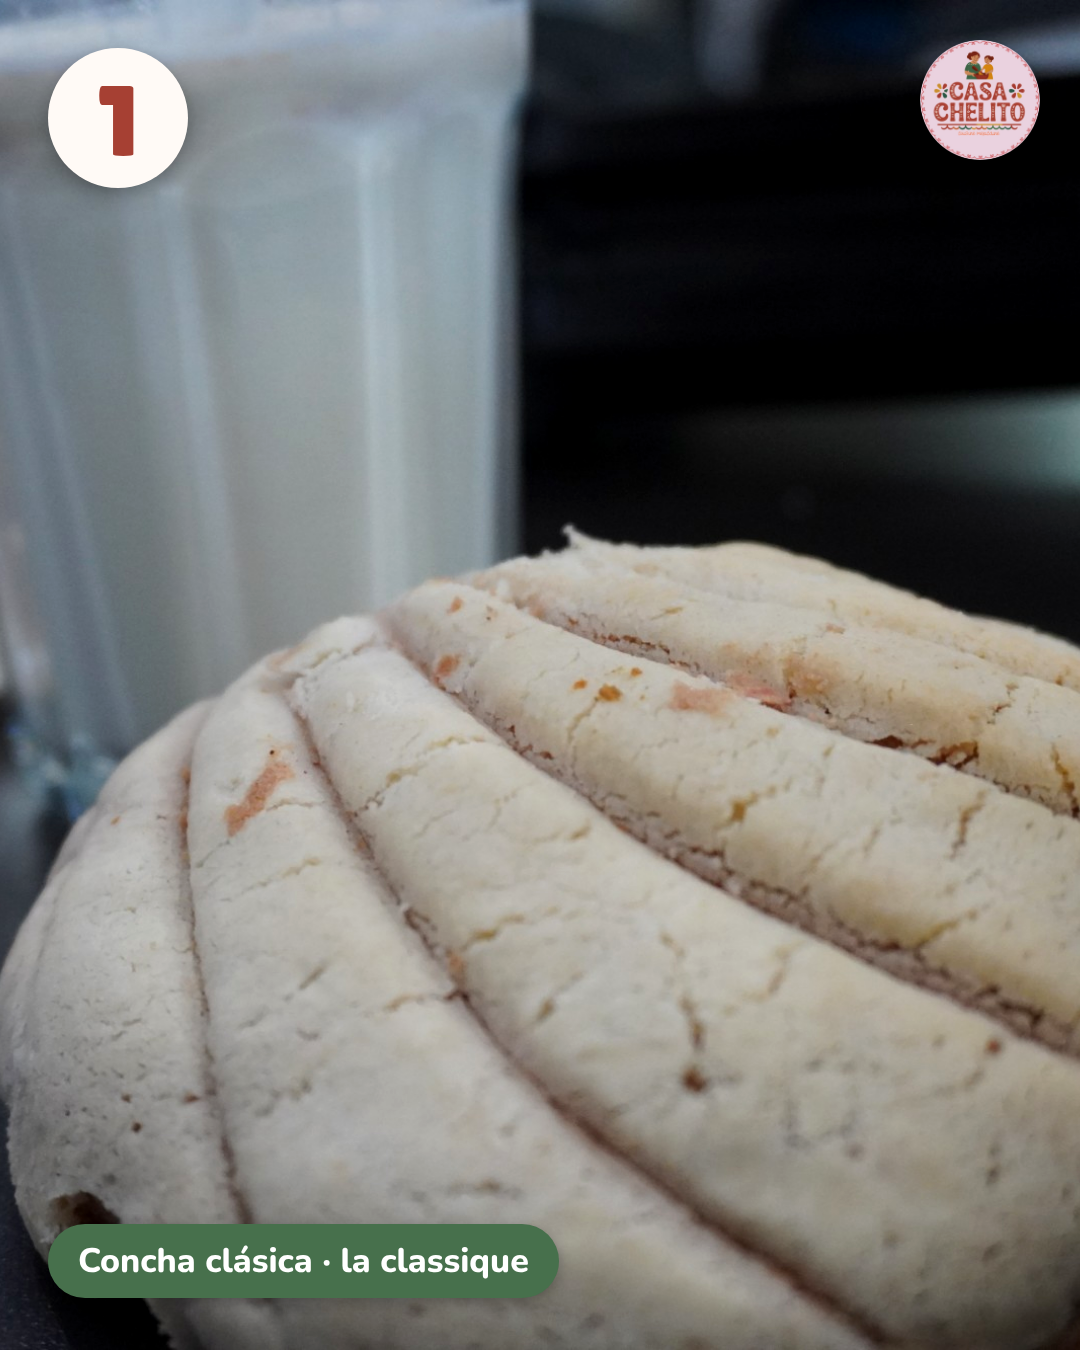
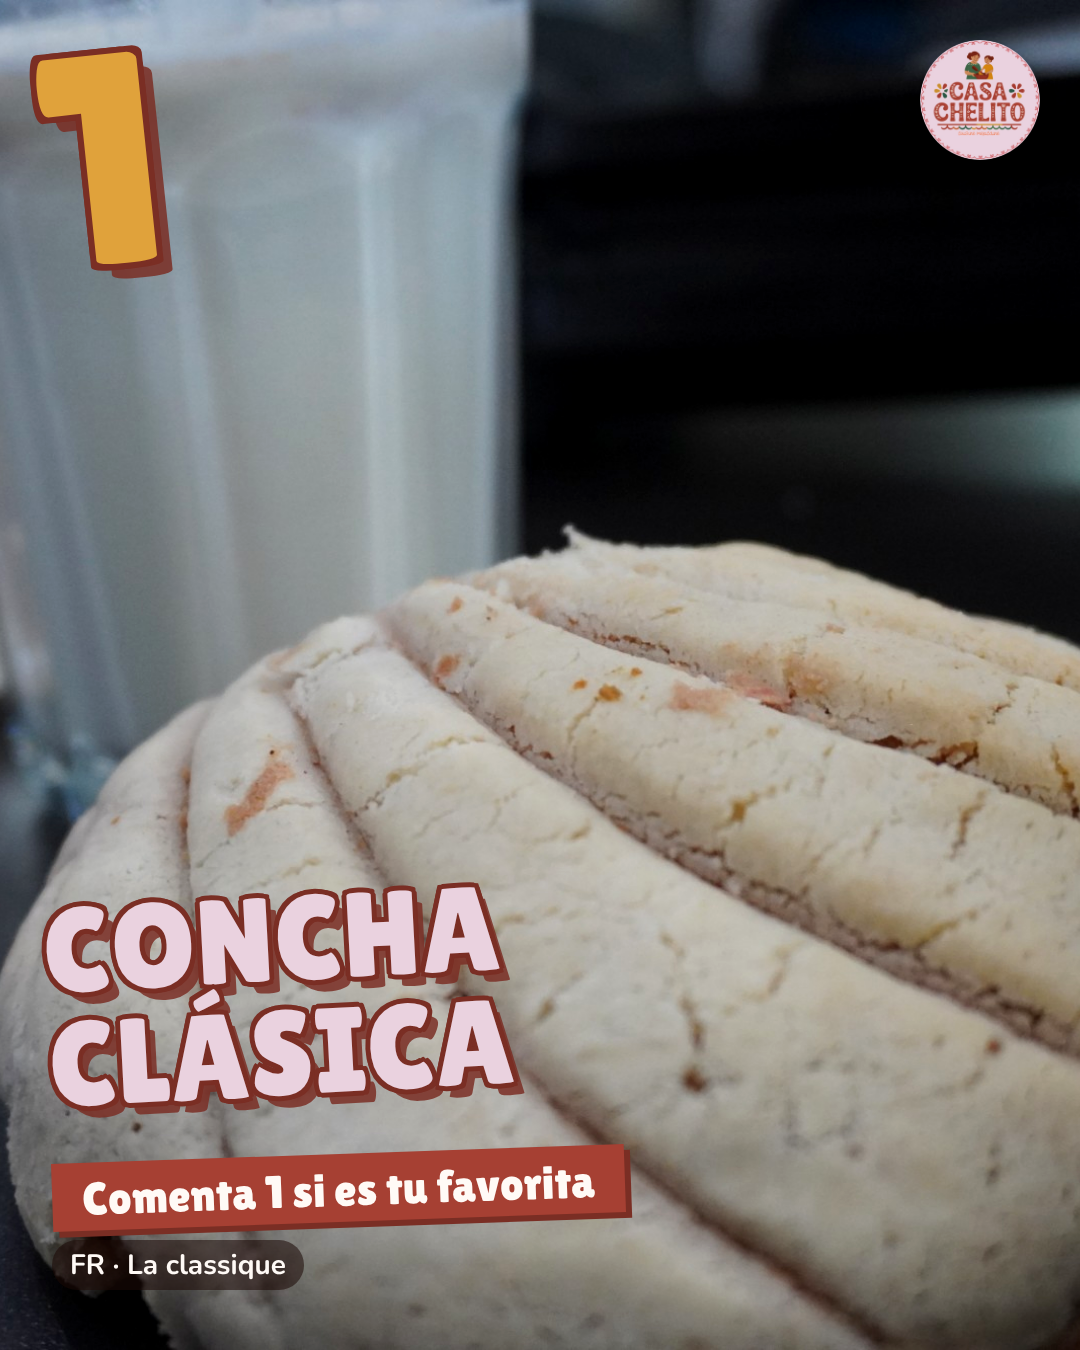
Piezas de redes: CTA «Comenta CHELITO» y titulares de impacto
- CTA «Comenta CHELITO para más info» en las piezas de producto y servicio
- Carruseles de paletas y conchas con titulares grandes con contorno,
  cintas y etiquetas de sabores en los colores de la marca

Claude-Session: https://claude.ai/code/session_01UmYvMaUdBeMewG3WqqKD7a

Changed region(s): [[0.0306, 0.6533, 0.6111, 0.9644], [0.0306, 0.0311, 0.1833, 0.2178]]

diff --git a/tools/redes.py b/tools/redes.py
@@ -58,6 +58,31 @@ body {{ background: #222; }}
 .chips span {{ background: rgba(255,250,246,.96); color: #7a2e24; font-weight: 800; font-size: 32px;
   padding: 9px 22px; border-radius: 999px; box-shadow: 0 3px 10px rgba(0,0,0,.22); }}
 .chips small {{ font-size: 21px; font-weight: 700; color: #47704c; margin-left: 8px; }}
+.pastilla.cta {{ background: #e0a23b; color: #7a2e24; font-weight: 800; font-size: 32px; padding: 12px 28px; }}
+.pastilla.cta b {{ font-family: "Lilita One"; font-weight: 400; color: #a64033; letter-spacing: 1px; }}
+/* Estilo de impacto: titular grande con contorno, en colores de la marca */
+.impacto {{ position: absolute; left: 52px; right: 52px; bottom: 60px; display: flex; flex-direction: column;
+  align-items: flex-start; gap: 18px; }}
+.grande {{ font-family: "Lilita One"; line-height: .95; letter-spacing: 1px; transform: rotate(-3deg);
+  transform-origin: left bottom; margin-bottom: 14px;
+  text-shadow: -4px -4px 0 #7a2e24, 4px -4px 0 #7a2e24, -4px 4px 0 #7a2e24, 4px 4px 0 #7a2e24,
+    0 -5px 0 #7a2e24, 0 5px 0 #7a2e24, -5px 0 0 #7a2e24, 5px 0 0 #7a2e24, 10px 12px 0 rgba(122,46,36,.85); }}
+.cinta {{ display: inline-block; background: #a64033; color: #fffaf6; font-family: "Lilita One"; font-size: 46px;
+  padding: 10px 30px 6px; transform: rotate(-2deg); box-shadow: 6px 6px 0 #7a2e24; }}
+.cinta.mostaza {{ background: #e0a23b; color: #7a2e24; box-shadow: 6px 6px 0 #a64033; }}
+.cinta.verde {{ background: #47704c; box-shadow: 6px 6px 0 #2c4a30; }}
+.chips-color {{ display: flex; flex-wrap: wrap; gap: 14px; }}
+.chips-color span {{ font-family: "Lilita One"; font-size: 44px; color: #fff; padding: 10px 26px 6px;
+  border-radius: 999px; box-shadow: 4px 4px 0 rgba(0,0,0,.35); }}
+.chips-color span:nth-child(4n+1) {{ background: #a64033; transform: rotate(-2deg); }}
+.chips-color span:nth-child(4n+2) {{ background: #47704c; transform: rotate(1.5deg); }}
+.chips-color span:nth-child(4n+3) {{ background: #e9843e; transform: rotate(-1deg); }}
+.chips-color span:nth-child(4n+4) {{ background: #c25a7c; transform: rotate(2deg); }}
+.fr-nota {{ font-size: 28px; font-weight: 700; color: #fffaf6; background: rgba(28,10,6,.55);
+  padding: 6px 18px; border-radius: 999px; }}
+.numero-grande {{ position: absolute; left: 40px; top: 10px; font-family: "Lilita One"; font-size: 300px;
+  color: #e0a23b; line-height: 1; transform: rotate(-6deg);
+  text-shadow: -6px -6px 0 #7a2e24, 6px -6px 0 #7a2e24, -6px 6px 0 #7a2e24, 6px 6px 0 #7a2e24, 14px 16px 0 rgba(122,46,36,.85); }}
 .numero {{ position: absolute; left: 48px; top: 48px; width: 140px; height: 140px; border-radius: 50%;
   background: #fffaf6; color: #a64033; font-family: "Lilita One"; font-size: 100px;
   display: grid; place-items: center; box-shadow: 0 6px 20px rgba(0,0,0,.3); padding-top: 6px; }}
@@ -73,7 +98,7 @@ def sello():
     return f'<img class="sello" src="{LOGO}" alt="">'
 
 
-def publicacion(nombre_foto, pos, linea, titulo="", sub="", previa="", chips=None, numero=None, nota="",
+def publicacion(nombre_foto, pos, linea, titulo="", sub="", previa="", chips=None, numero=None, nota="", cta=False,
                 tamano=FEED, logo=True, abajo=52):
     """La foto manda: imagen limpia a pantalla completa y etiquetas pequeñas encima.
 
@@ -92,6 +117,8 @@ def publicacion(nombre_foto, pos, linea, titulo="", sub="", previa="", chips=Non
         partes.append(f'<div class="pastilla verde">{linea}</div>')
     if nota:
         partes.append(f'<div class="pastilla nota">{nota}</div>')
+    if cta:
+        partes.append('<div class="pastilla cta">Comenta <b>CHELITO</b> para más info</div>')
     return pagina(f"""
       <img class="foto" src="{foto(nombre_foto)}" style="object-position:{pos}">
       {f'<div class="numero">{numero}</div>' if numero else ""}
@@ -99,47 +126,69 @@ def publicacion(nombre_foto, pos, linea, titulo="", sub="", previa="", chips=Non
       <div class="etiquetas" style="bottom:{abajo}px">{"".join(partes)}</div>""", *tamano)
 
 
+def impacto(nombre_foto, pos, titulo, color="#ead2df", tam=150, cinta="", cinta_color="", fr="",
+            chips=None, numero=None, cta=False, previa="", tamano=FEED):
+    """Titular grande con contorno sobre la foto, en los colores de la marca."""
+    partes = []
+    if previa:
+        partes.append(f'<div class="cinta verde" style="font-size:34px">{previa}</div>')
+    partes.append(f'<div class="grande" style="font-size:{tam}px;color:{color}">{titulo}</div>')
+    if chips:
+        partes.append('<div class="chips-color">' + "".join(f"<span>{c}</span>" for c in chips) + "</div>")
+    if cinta:
+        partes.append(f'<div class="cinta {cinta_color}">{cinta}</div>')
+    if fr:
+        partes.append(f'<div class="fr-nota">FR · {fr}</div>')
+    if cta:
+        partes.append('<div class="pastilla cta">Comenta <b>CHELITO</b> para más info</div>')
+    return pagina(f"""
+      <img class="foto" src="{foto(nombre_foto)}" style="object-position:{pos}">
+      {f'<div class="numero-grande">{numero}</div>' if numero else ""}
+      {sello()}
+      <div class="impacto">{"".join(partes)}</div>""", *tamano)
+
+
 # ---------------------------------------------------------------- Piezas
 
 def carrusel_paletas():
     """Jue 5 nov · C. Educativo · «Paletas 101»."""
-    agua = [("Mango", "mangue"), ("Fresa", "fraise"), ("Tamarindo", "tamarin"), ("Piña", "ananas"), ("Limón", "lime")]
-    crema = [("Coco", ""), ("Fresa", "fraise"), ("Rompope", ""), ("Nuez", "pacane"), ("Pistache", ""),
-             ("Vainilla", "vanille"), ("Oreo", ""), ("Chocolate", "chocolat"), ("Mango", "mangue")]
+    agua = ["Mango", "Fresa", "Tamarindo", "Piña", "Limón"]
+    crema = ["Coco", "Fresa", "Rompope", "Nuez", "Pistache", "Vainilla", "Oreo", "Chocolate", "Mango"]
     return {
-        "paletas-101-1-portada": publicacion(
-            "paletas-fila", "50% 60%", "Desliza y elige la tuya →",
-            titulo="Paletas 101", sub="De agua, con chamoy o de crema · eau, chamoy ou crème", previa="¿Sabías que…?"),
-        "paletas-101-2-agua": publicacion(
-            "paleta-verde", "45% 50%", "Frutales y refrescantes · fruitées",
-            titulo="De agua", sub="À base d'eau", previa="1 / 3", chips=agua),
-        "paletas-101-3-chamoy": publicacion(
-            "paletas-colores", "55% 55%", "Dulce, saladito y enchilado · sucré, salé, piquant",
-            titulo="Con chamoy", sub="Avec chamoy", previa="2 / 3", chips=agua),
-        "paletas-101-4-crema": publicacion(
-            "paletas-sobre-congelador", "40% 50%", "Cremositas · onctueuses",
-            titulo="De crema", sub="À la crème", previa="3 / 3", chips=crema),
-        "paletas-101-5-cierre": publicacion(
-            "paletas-acomodadas", "55% 50%", DIRECCION, nota=HORARIO_ES,
-            titulo="¿Cuál vas a probar?", sub="Laquelle tu essaies ?"),
+        "paletas-101-1-portada": impacto(
+            "paletas-fila", "50% 60%", "PALETAS<br>101", "#ead2df", 190, previa="¿Sabías que…?",
+            cinta="De agua, con chamoy o de crema", fr="Les paletas : eau, chamoy ou crème"),
+        "paletas-101-2-agua": impacto(
+            "paleta-verde", "45% 50%", "DE AGUA", "#e0a23b", 170, previa="1 / 3", chips=agua,
+            cinta="Frutales y refrescantes", cinta_color="verde", fr="À base d'eau, fruitées"),
+        "paletas-101-3-chamoy": impacto(
+            "paletas-colores", "55% 55%", "CON<br>CHAMOY", "#e9843e", 160, previa="2 / 3", chips=agua,
+            cinta="Dulce, saladito y enchilado", fr="Avec chamoy : sucré, salé, piquant"),
+        "paletas-101-4-crema": impacto(
+            "paletas-sobre-congelador", "40% 50%", "DE CREMA", "#ead2df", 160, previa="3 / 3", chips=crema,
+            cinta="Cremositas", cinta_color="mostaza", fr="À la crème, onctueuses"),
+        "paletas-101-5-cierre": impacto(
+            "paletas-acomodadas", "55% 50%", "¿CUÁL VAS<br>A PROBAR?", "#e0a23b", 130,
+            cinta=DIRECCION, cinta_color="verde", fr="Laquelle tu essaies ?", cta=True),
     }
 
 
 def carrusel_conchas():
     """Jue 12 nov · D. Interacción · «¿Cuál agarras primero?»."""
-    panes = [("concha-con-leche", "62% 70%", "Concha clásica · la classique"),
-             ("concha-rosa", "35% 40%", "Concha de color · concha colorée"),
-             ("pan-de-muerto-concha", "50% 45%", "Pan de muerto de concha · avec croûte de concha")]
+    panes = [("concha-con-leche", "62% 70%", "CONCHA<br>CLÁSICA", "#ead2df", "La classique"),
+             ("concha-rosa", "35% 40%", "CONCHA<br>DE COLOR", "#e0a23b", "Concha colorée"),
+             ("pan-de-muerto-concha", "50% 45%", "PAN DE MUERTO<br>DE CONCHA", "#ead2df", "Pan de muerto avec croûte de concha")]
     piezas = {
         "conchas-1-portada": publicacion(
             "pan-de-muerto-concha", "50% 40%", "Desliza y comenta 1, 2 o 3 →",
             titulo="¿Cuál agarras primero?", sub="Laquelle en premier ?", previa="Vota en comentarios"),
     }
-    for i, (n, p, linea) in enumerate(panes, start=1):
-        piezas[f"conchas-{i + 1}-opcion-{i}"] = publicacion(n, p, linea, numero=i)
-    piezas["conchas-5-cierre"] = publicacion(
-        "tienda-pan-estantes", "100% 50%", "El viernes contamos los votos en historias",
-        titulo="Comenta 1, 2 o 3", sub="Commente ton numéro !")
+    for i, (n, p, titulo, color, fr) in enumerate(panes, start=1):
+        piezas[f"conchas-{i + 1}-opcion-{i}"] = impacto(n, p, titulo, color, 120, numero=i,
+                                                       cinta=f"Comenta {i} si es tu favorita", fr=fr)
+    piezas["conchas-5-cierre"] = impacto(
+        "tienda-pan-estantes", "100% 50%", "COMENTA<br>1, 2 O 3", "#e0a23b", 170,
+        cinta="El viernes contamos los votos", cinta_color="verde", fr="Commente ton numéro !")
     return piezas
 
 
@@ -148,9 +197,9 @@ def livraison():
     comun = dict(titulo=f"¡Te lo llevamos a casa!<br>{TELEFONO}", sub="On livre ! Appelle-nous",
                  previa="Pedidos por teléfono")
     return {
-        "livraison-feed": publicacion("tienda-mostrador", "50% 55%", HORARIO_ES, **comun),
+        "livraison-feed": publicacion("tienda-mostrador", "50% 55%", HORARIO_ES, cta=True, **comun),
         "livraison-historia": publicacion("tienda-mostrador", "45% 50%", HORARIO_ES, tamano=HISTORIA,
-                                          abajo=320, **comun),
+                                          abajo=320, cta=True, **comun),
     }
 
 
@@ -159,13 +208,13 @@ def sueltas():
     return {
         "nostalgia-gansito": publicacion("gansito-marias", "40% 60%",
                                          "Si comiste esto de niño, eres de los nuestros",
-                                         nota="FR · Les collations de notre enfance"),
+                                         nota="FR · Les collations de notre enfance", cta=True),
         "nostalgia-carrito": publicacion("carrito-paletero", "62% 40%", "El carrito paletero también emigró",
-                                         nota="FR · Le chariot à paletas, comme au Mexique"),
+                                         nota="FR · Le chariot à paletas, comme au Mexique", cta=True),
         "nostalgia-fabuloso": publicacion("hogar-limpieza", "55% 45%", "Si tu casa olía a Fabuloso los sábados…",
-                                          nota="FR · Les incontournables d'une maison mexicaine"),
+                                          nota="FR · Les incontournables d'une maison mexicaine", cta=True),
         "tamales": publicacion("tamal", "50% 4%", f"¡Hay tamales! · Apártalos al {TELEFONO}",
-                               nota="FR · Il y a des tamales ! Appelle pour réserver", logo=False),
+                               nota="FR · Il y a des tamales ! Appelle pour réserver", logo=False, cta=True),
     }
 
 
